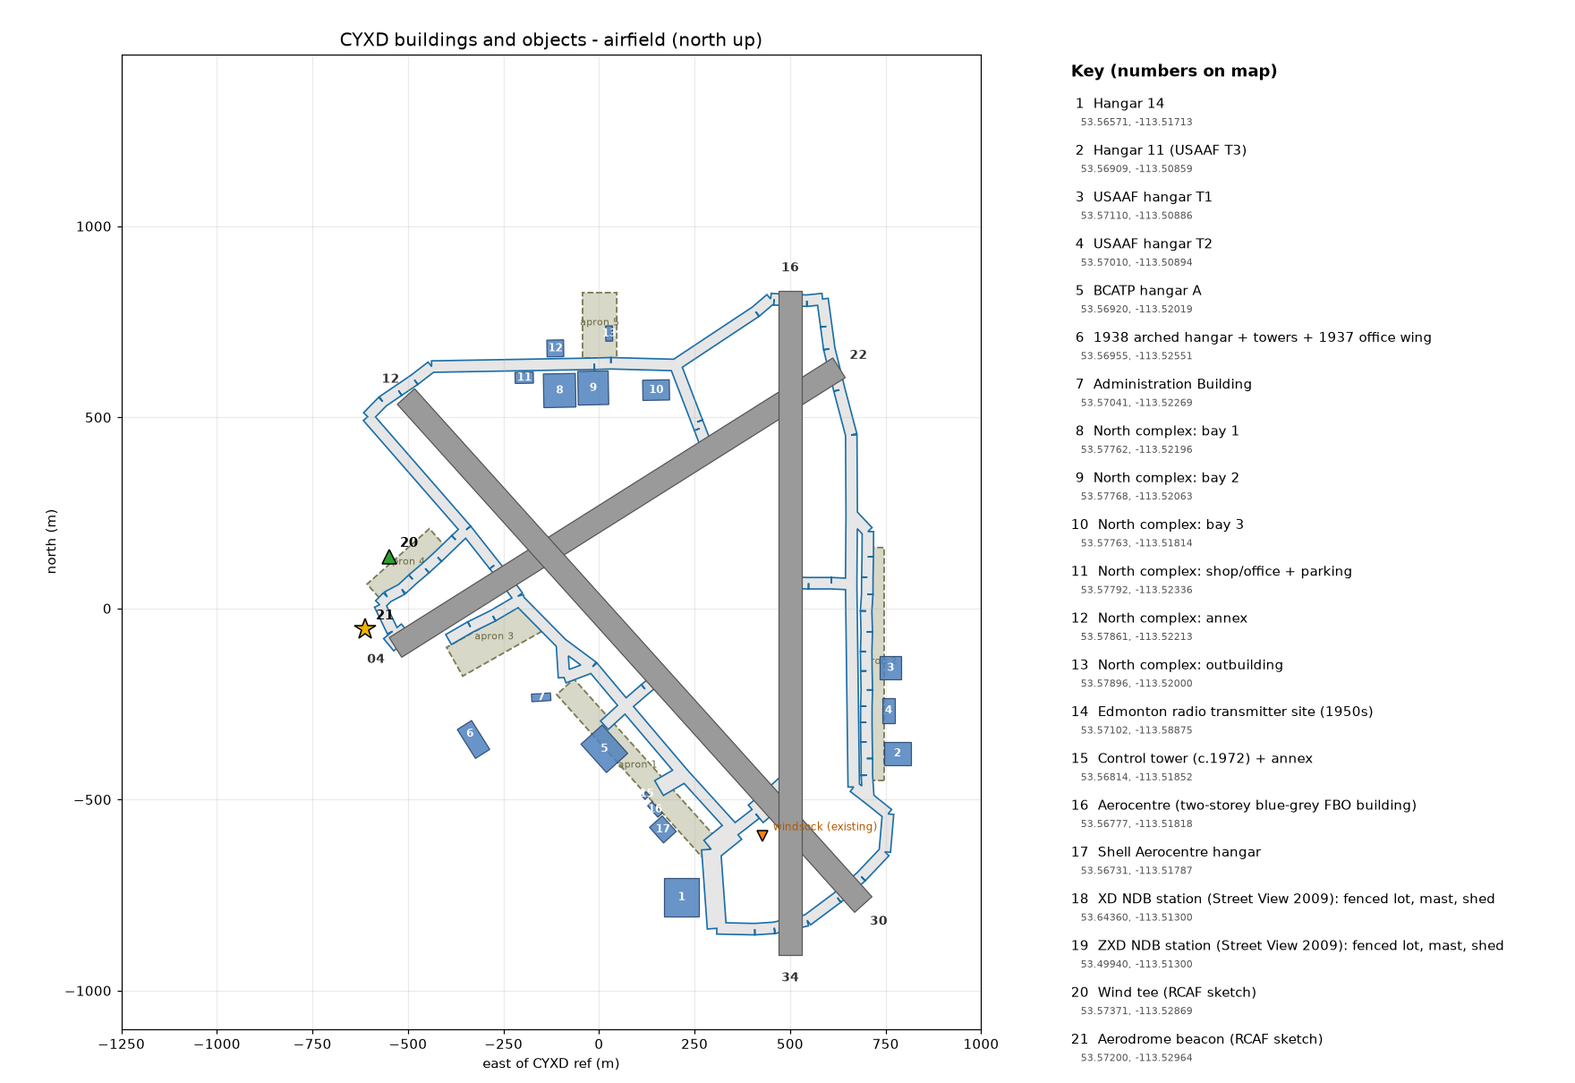
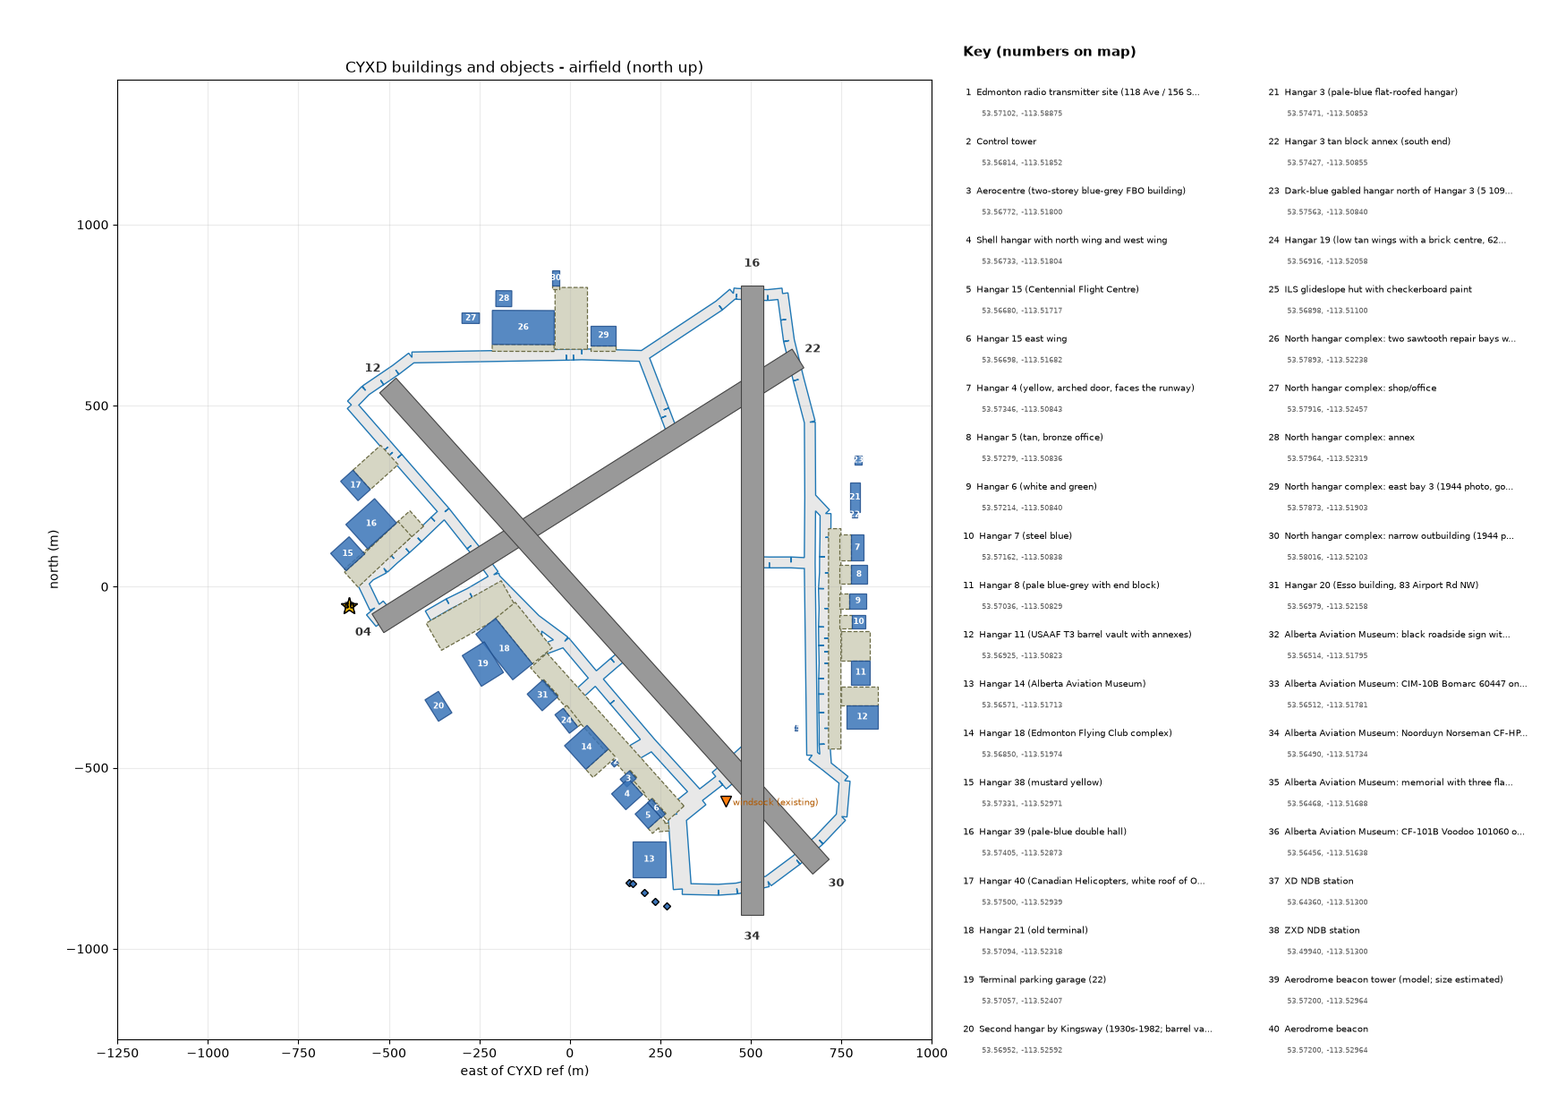
🤖 [cyxd] Commit gen_aprons.py, make_maps.py, regenerated building maps and doc updates; ignore .serena
gen_aprons.py writes the front-door apron block already in CYXD.xml; make_maps.py
draws the building maps. Also the north complex 1944-vs-2016 overlay, hangar
footprint and open-question notes.

diff --git a/airport-cyxd/tools/gen_aprons.py b/airport-cyxd/tools/gen_aprons.py
@@ -1,0 +1,178 @@
+"""Extend the aprons up to each hangar's front (door) wall.  Preview:  python -I airport-cyxd/tools/gen_aprons.py
+Write into CYXD.xml:  python -I airport-cyxd/tools/gen_aprons.py --write   (generated block between the BEGIN/END markers inside <Aprons>)
+Door walls are per building (outward bearing, from each model's door wall), not the side nearest the runway.  Hangar 14 (museum) is skipped on purpose."""
+import math
+import re
+import sys
+import xml.etree.ElementTree as ET
+from pathlib import Path
+
+from shapely.geometry import LineString, Point, Polygon
+from shapely.ops import nearest_points, unary_union
+
+ROOT = Path(__file__).resolve().parents[2]
+CYXD = ROOT / "airport-cyxd/PackageSources/Scenery/airport-cyxd/CYXD.xml"
+KX, KY = 66170.0, 111200.0
+MARGIN = 6.0  # the generator's exclusion margin around each footprint
+BEGIN = "<!-- BEGIN hangar aprons (generated by airport-cyxd/tools/gen_aprons.py) -->"
+END = "<!-- END hangar aprons -->"
+SURFACE = "{85D02B2B-08A1-452E-AB07-6D5AE7F52884}"
+LINK_W = 24.0     # width of a connecting strip to existing pavement
+FORECOURT = 12.0  # depth in front of a door when no pavement lies straight ahead
+# (title prefix, outward bearing of the door wall)
+DOORS = [
+    ("Hangar 4 (", 270), ("Hangar 5 (", 270), ("Hangar 6 (", 270), ("Hangar 7 (", 270),
+    ("Hangar 8 (", 0), ("Hangar 11 (", 0), ("Hangar 18 (", 138), ("Hangar 39 (", 138),
+    ("Hangar 40 (", 48), ("Hangar 21 (", 51), ("Second hangar", 57.78), ("Hangar 3 (", 270),
+    ("Dark-blue gabled", 180), ("Hangar 19 (", 52), ("Hangar 20 (", 48),
+    ("North hangar complex: two sawtooth", 180), ("North hangar complex: shop", 180), ("North hangar complex: annex", 180),
+    ("North hangar complex: east bay 3", 180), ("North hangar complex: narrow", 180),
+    ("Aerocentre", 48), ("Shell hangar", 48), ("Hangar 15 (", 138), ("Hangar 15 east wing", 48),
+]
+# held back until the user confirms the door wall (see STATUS.md: the shop and annex are advised against)
+HOLD = ("Hangar 3 (", "Dark-blue gabled", "Second hangar", "North hangar complex: shop", "North hangar complex: annex")
+DEPTH = {}  # fixed depths (none now; Hangar 38 is served by extending the hand-written Hangar 39 apron, groupIndex 2, 24 m to the SW)
+GROW = {"Hangar 8 (": 6.0, "Hangar 11 (": 6.0, "Hangar 18 (": 4.0}  # apron grows out until this clearance (m) from the next building (user: almost to the hangar beyond / the tower)
+TO_TAXI = ("Hangar 21 (",)  # runs out to the taxiway (terminal: jets)
+TURN = {"Hangar 15 (": (18.0, 22.0)}  # forecourt depth, strip width: out of the door, then a turn to the taxiway (no strip through Hangar 14)
+KEEP_CLEAR = ("Hangar 14 (",)  # museum: no apron towards it; a fence line stands between it and Hangar 15
+KEEP_CLEAR_M = 12.0
+
+
+
+def main():
+    write = "--write" in sys.argv
+    text = CYXD.read_text(encoding="utf-8")
+    pat = r"[ \t]*" + re.escape(BEGIN) + r".*?" + re.escape(END) + r"\r?\n"
+    text_clean = re.sub(pat, "", text, flags=re.S)  # checks run without the previous generated aprons
+    root = ET.fromstring(text_clean)
+    ap = root.find("Airport")
+    lat0, lon0 = float(ap.get("lat")), float(ap.get("lon"))
+    xy = lambda la, lo: ((float(lo) - lon0) * KX, (float(la) - lat0) * KY)
+    pts = {p.get("index"): xy(p.get("lat"), p.get("lon")) for p in ap.findall("TaxiwayPoint")}
+    taxi = unary_union([LineString([pts[t.get("start")], pts[t.get("end")]]).buffer(float(t.get("width")) / 2, cap_style=2)
+                        for t in ap.findall("TaxiwayPath")
+                        if t.get("type") == "TAXI" and t.get("start") in pts and t.get("end") in pts and pts[t.get("start")] != pts[t.get("end")]])
+    aprons = unary_union([Polygon([xy(v.get("lat"), v.get("lon")) for v in a.findall("Vertex")]) for a in ap.iter("Apron")])
+    pave = unary_union([taxi, aprons])
+    rw = []
+    for r in ap.findall("Runway"):
+        cx, cy = xy(r.get("lat"), r.get("lon"))
+        h = math.radians(float(r.get("heading")))
+        f, rt = (math.sin(h), math.cos(h)), (math.cos(h), -math.sin(h))
+        hl, hw = float(r.get("length")) / 2, float(r.get("width")) / 2 + 3
+        rw.append(Polygon([(cx + a * rt[0] + b * f[0], cy + a * rt[1] + b * f[1]) for a, b in ((-hw, -hl), (hw, -hl), (hw, hl), (-hw, hl))]))
+    runways = unary_union(rw)
+    spots = [(xy(p.get("lat"), p.get("lon")), float(p.get("radius"))) for p in ap.iter("TaxiwayParking")]
+    feet = {}
+    for pl in root.iter("Polygon"):
+        d = pl.get("displayName", "")
+        if d.startswith("No generated buildings: "):
+            p = Polygon([xy(v.get("lat"), v.get("lon")) for v in pl.findall("Vertex")])
+            q = p.buffer(-MARGIN, join_style=2)
+            feet[d[len("No generated buildings: "):]] = q if not q.is_empty else p
+    out = []
+    for prefix, brg in DOORS:
+        if prefix in HOLD:
+            continue
+        key = [k for k in feet if k.startswith(prefix)]
+        if not key:
+            print("NO FOOTPRINT for", prefix)
+            continue
+        title = key[0]
+        fp = feet[title]
+        rect = fp.minimum_rotated_rectangle
+        c = list(rect.exterior.coords)[:4]
+        centre = rect.centroid
+        want = (math.sin(math.radians(brg)), math.cos(math.radians(brg)))
+        best = None
+        for i in range(4):
+            a, b = c[i], c[(i + 1) % 4]
+            mid = ((a[0] + b[0]) / 2, (a[1] + b[1]) / 2)
+            n = (mid[0] - centre.x, mid[1] - centre.y)
+            L = math.hypot(*n)
+            n = (n[0] / L, n[1] / L)
+            s = n[0] * want[0] + n[1] * want[1]
+            if best is None or s > best[0]:
+                best = (s, a, b, n)
+        _, a, b, n = best
+
+        def ext(d):
+            return Polygon([a, b, (b[0] + n[0] * d, b[1] + n[1] * d), (a[0] + n[0] * d, a[1] + n[1] * d)])
+        mid = ((a[0] + b[0]) / 2, (a[1] + b[1]) / 2)
+        avoid = unary_union([f2.buffer(KEEP_CLEAR_M) for t2, f2 in feet.items() if t2.startswith(KEEP_CLEAR)])
+        ray_hit = next((k for k in range(0, 160) if pave.contains(Point(mid[0] + n[0] * k, mid[1] + n[1] * k))), None)
+        if prefix in TURN:
+            dep, wid = TURN[prefix]
+            quad = ext(dep)
+            tip = (mid[0] + n[0] * dep, mid[1] + n[1] * dep)
+            tgt = nearest_points(Point(tip), pave.difference(avoid))[1]
+            quad = unary_union([quad, LineString([tip, (tgt.x, tgt.y)]).buffer(wid / 2, cap_style=2)]).difference(avoid)
+            mode = "forecourt %.0f m + turn %.0f m" % (dep, Point(tip).distance(tgt))
+        elif prefix in TO_TAXI:
+            dmax = 0
+            for k in range(1, 11):
+                p0 = (a[0] + (b[0] - a[0]) * k / 11, a[1] + (b[1] - a[1]) * k / 11)
+                dmax = max(dmax, next((j for j in range(1, 200) if taxi.contains(Point(p0[0] + n[0] * j, p0[1] + n[1] * j))), 0))
+            quad = ext(dmax + 3.0)
+            mode = "to taxiway %.0f m" % dmax
+        elif prefix in GROW:
+            others = [f2.buffer(GROW[prefix]) for t2, f2 in feet.items() if t2 != title and not t2.startswith("Old terminal")]
+            obst = unary_union(others)
+            d = next((j for j in range(1, 200) if ext(j).intersects(obst)), 200) - 1
+            quad = ext(d)
+            mode = "grown %d m" % d
+            if not quad.intersects(pave):
+                near = nearest_points(quad, pave)
+                lat = (-n[1], n[0])  # sideways along the door wall: the strip slides to the pavement, so the access is as wide as the strip
+                t = (near[1].x - near[0].x) * lat[0] + (near[1].y - near[0].y) * lat[1]
+                L, lw = abs(t), math.dist(a, b)
+                from shapely import affinity
+                quad = unary_union([quad, affinity.translate(quad, lat[0] * t, lat[1] * t)]).convex_hull
+                mode += " + link %.0f m x %.0f m" % (L, lw)
+        elif prefix in DEPTH:
+            quad = ext(DEPTH[prefix])
+            mode = "fixed %.0f m" % DEPTH[prefix]
+        elif ray_hit is not None:
+            quad = ext(max(ray_hit, 0.0) + 3.0)
+            mode = "ray %d m" % ray_hit
+        else:
+            quad = ext(FORECOURT)
+            near = nearest_points(quad, pave)
+            quad = unary_union([quad, LineString([near[0], near[1]]).buffer(LINK_W / 2, cap_style=2)])
+            mode = "forecourt %.0f m + link %.0f m" % (FORECOURT, near[0].distance(near[1]))
+        new = quad.difference(pave).difference(fp)
+        conf = []
+        if new.intersects(runways):
+            conf.append("RUNWAY")
+        for t2, f2 in feet.items():
+            if t2 != title and not t2.startswith("Old terminal") and new.intersects(f2.buffer(-0.5)):
+                conf.append("bldg:" + t2[:22])
+        for (sx, sy), r in spots:
+            if new.intersects(Point(sx, sy).buffer(r * 0.9)):
+                conf.append("parking")
+                break
+        print("%-34s brg %5.1f span %5.1f  %-34s new %6.0f m2  %s" % (title[:34], brg, math.dist(a, b), mode, new.area, ",".join(conf)))
+        out.append((title, quad.difference(fp)))
+    if not write:
+        return
+    lines = ["\t\t\t" + BEGIN]
+    for title, q in out:
+        for g in (q.geoms if hasattr(q, "geoms") else [q]):
+            if g.is_empty or g.geom_type != "Polygon":
+                continue
+            lines.append("\t\t\t<!-- front-door apron: %s -->" % title.replace("--", "-"))
+            lines.append('\t\t\t<Apron parentGroupID="3" surface="%s" drawSurface="TRUE" drawDetail="TRUE" localUV="TRUE" stretchUV="TRUE" flipUV="FALSE" priority="1" tiling="25.000000" heading="0.000000" falloff="0.100000" opacity="255" groundMerging="TRUE" excludeVegetationAround="TRUE" excludeVegetationInside="TRUE" isRectangle="FALSE">' % SURFACE)
+            for x, y in list(g.exterior.coords)[:-1]:
+                lines.append('\t\t\t\t<Vertex lat="%.14f" lon="%.14f"/>' % (lat0 + y / KY, lon0 + x / KX))
+            lines.append("\t\t\t</Apron>")
+    lines.append("\t\t\t" + END)
+    nl = "\r\n" if "\r\n" in text_clean else "\n"
+    i = text_clean.index("</Aprons>")
+    i = text_clean.rindex(nl, 0, i) + len(nl)
+    CYXD.write_text(text_clean[:i] + nl.join(lines) + nl + text_clean[i:], encoding="utf-8", newline="")
+    print("written", len(out), "door aprons")
+
+
+if __name__ == "__main__":
+    main()

diff --git a/airport-cyxd/tools/make_maps.py b/airport-cyxd/tools/make_maps.py
@@ -1,0 +1,177 @@
+"""Redraw docs/cyxd/maps/ (airfield and overview maps) from CYXD.xml: runways, taxiways, aprons and every generated building.
+
+Run from the repo root:  python -I airport-cyxd/tools/make_maps.py
+Building footprints are the generated exclusion polygons shrunk by the generator's 6 m margin; objects without a polygon are drawn as markers.
+"""
+import math
+import re
+import xml.etree.ElementTree as ET
+from pathlib import Path
+
+import matplotlib
+matplotlib.use("Agg")
+import matplotlib.pyplot as plt
+from matplotlib.patches import Polygon as MPoly
+from shapely.geometry import LineString, Polygon
+from shapely.ops import unary_union
+
+ROOT = Path(__file__).resolve().parents[2]
+CYXD = ROOT / "airport-cyxd/PackageSources/Scenery/airport-cyxd/CYXD.xml"
+OUT = ROOT / "docs/cyxd/maps"
+KX, KY = 66170.0, 111200.0
+MARGIN = 6.0
+BEGIN, END = "BEGIN historic buildings", "END historic buildings"
+RUNWAY_LABELS = {58: ("04", "22"), 138: ("12", "30"), 180: ("16", "34")}
+
+
+def short(title):
+    """Key text: drop OSM way ids and 'traced from ...' tails, then close any open bracket."""
+    t = re.sub(r"(,|;| \()\s*(OSM|traced|replaces|c\.19|RCAF).*", "", title)
+    t = re.sub(r"\s*\(?(Street View 2009|infield).*", "", t)
+    if t.count("(") > t.count(")"):
+        t += ")"
+    return t
+
+
+def classify(title, shape):
+    low = title.lower()
+    if "aerodrome beacon" in low:
+        return "beacon"
+    if "wind tee" in low:
+        return "tee"
+    if "ndb" in low:
+        return "ndb"
+    if "transmitter" in low:
+        return "tx"
+    return "bldg" if shape else "obj"
+
+
+def main():
+    text = CYXD.read_text(encoding="utf-8")
+    root = ET.fromstring(text)
+    ap = root.find("Airport")
+    lat0, lon0 = float(ap.get("lat")), float(ap.get("lon"))
+
+    def xy(lat, lon):
+        return ((float(lon) - lon0) * KX, (float(lat) - lat0) * KY)
+
+    def poly_xy(el):
+        return [xy(v.get("lat"), v.get("lon")) for v in el.findall("Vertex")]
+
+    runways = []
+    for r in ap.findall("Runway"):
+        cx, cy = xy(r.get("lat"), r.get("lon"))
+        h = math.radians(float(r.get("heading")))
+        half_l, half_w = float(r.get("length")) / 2, float(r.get("width")) / 2
+        f, rt = (math.sin(h), math.cos(h)), (math.cos(h), -math.sin(h))
+        pts = [(cx + a * rt[0] + b * f[0], cy + a * rt[1] + b * f[1]) for a, b in ((-half_w, -half_l), (half_w, -half_l), (half_w, half_l), (-half_w, half_l))]
+        lab = RUNWAY_LABELS[round(float(r.get("heading")))]
+        runways.append((pts, (cx - half_l * f[0] * 1.07, cy - half_l * f[1] * 1.07, lab[0]), (cx + half_l * f[0] * 1.07, cy + half_l * f[1] * 1.07, lab[1])))
+    pts = {p.get("index"): xy(p.get("lat"), p.get("lon")) for p in ap.findall("TaxiwayPoint")}
+    shapes = []
+    for t in ap.findall("TaxiwayPath"):
+        if t.get("type") not in ("TAXI", "PATH") or t.get("start") not in pts or t.get("end") not in pts:
+            continue
+        a, b = pts[t.get("start")], pts[t.get("end")]
+        if a != b:
+            shapes.append(LineString([a, b]).buffer(float(t.get("width")) / 2, cap_style=2))
+    taxi = unary_union(shapes) if shapes else None
+    aprons = [poly_xy(a) for a in ap.iter("Apron")]
+
+    block = text[text.index(BEGIN):text.index(END)]
+    foot = {}
+    for pl in root.iter("Polygon"):
+        d = pl.get("displayName", "")
+        if d.startswith("No generated buildings: "):
+            foot[d[len("No generated buildings: "):]] = poly_xy(pl)
+    keep = []
+    pat = r'<!-- (.*?) -->\s*<SceneryObject lat="([^"]+)" lon="([^"]+)"[^>]*heading="([^"]+)"'
+    for m in re.finditer(pat, block, re.S):
+        title = re.sub(r"\s+", " ", m.group(1))
+        if title.startswith(("XD:", "control tower:", "old terminal")):
+            continue
+        lat, lon = float(m.group(2)), float(m.group(3))
+        pg = foot.get(title.replace('"', "'")[:60])
+        shape = None
+        if pg and len(pg) >= 3 and "transmitter" not in title.lower():
+            p = Polygon(pg)
+            q = p.buffer(-MARGIN, join_style=2)
+            shape = list((q if not q.is_empty else p).exterior.coords)[:-1]
+        keep.append((title, lat, lon, xy(lat, lon), shape, classify(title, shape)))
+    wind = None
+    for so in root.iter("SceneryObject"):
+        if so.find("Windsock") is not None:
+            wind = xy(so.get("lat"), so.get("lon"))
+
+    def inside(c, xlim, ylim):
+        return xlim[0] < c[0] < xlim[1] and ylim[0] < c[1] < ylim[1]
+
+    def draw(ax, xlim, ylim, numbered):
+        for pts_, a, b in runways:
+            ax.add_patch(MPoly(pts_, closed=True, fc="#999", ec="#444", lw=0.8, zorder=2))
+            for x, y, lab in (a, b):
+                if inside((x, y), xlim, ylim):
+                    ax.text(x, y, lab, fontsize=9, fontweight="bold", ha="center", va="center", color="#333", zorder=6)
+        if taxi is not None:
+            for g in (taxi.geoms if hasattr(taxi, "geoms") else [taxi]):
+                ax.add_patch(MPoly(list(g.exterior.coords), closed=True, fc="#e8e8e8", ec="#1f77b4", lw=1.0, zorder=1))
+                for i in g.interiors:
+                    ax.add_patch(MPoly(list(i.coords), closed=True, fc="white", ec="#1f77b4", lw=1.0, zorder=1))
+        for a in aprons:
+            ax.add_patch(MPoly(a, closed=True, fc="#d6d6c4", ec="#6b6b44", lw=0.9, ls="--", zorder=1))
+        for n, (title, lat, lon, c, shape, kind) in enumerate(keep, 1):
+            if kind == "bldg":
+                ax.add_patch(MPoly(shape, closed=True, fc="#3a74b8", ec="#1f4e8c", lw=0.9, alpha=0.85, zorder=4))
+            else:
+                mk = {"tee": ("^", 9, "#2ca02c"), "beacon": ("*", 14, "#f2b705"), "ndb": ("o", 9, "#b79be0"), "tx": ("s", 11, "#c0504d"), "obj": ("D", 4, "#3a74b8")}[kind]
+                ax.plot(*c, marker=mk[0], ms=mk[1], color=mk[2], mec="k", zorder=5)
+            if numbered and kind != "obj" and inside(c, xlim, ylim):
+                ax.annotate(str(n), c, fontsize=6.5, color="white" if kind == "bldg" else "k", fontweight="bold", ha="center", va="center", zorder=7)
+        if wind and inside(wind, xlim, ylim):
+            ax.plot(*wind, marker="v", ms=8, color="#ff7f0e", mec="k", zorder=5)
+            ax.annotate("windsock (existing)", wind, xytext=(6, -3), textcoords="offset points", fontsize=7, color="#b35a00")
+        ax.set_xlim(*xlim)
+        ax.set_ylim(*ylim)
+        ax.set_aspect("equal")
+        ax.grid(alpha=0.25)
+
+    OUT.mkdir(parents=True, exist_ok=True)
+    fig = plt.figure(figsize=(17.5, 12.5))
+    ax = fig.add_axes([0.075, 0.07, 0.52, 0.86])
+    draw(ax, (-1250, 1000), (-1250, 1400), True)
+    ax.set_title("CYXD buildings and objects - airfield (north up)")
+    ax.set_xlabel("east of CYXD ref (m)")
+    ax.set_ylabel("north (m)")
+    half = (len(keep) + 1) // 2
+    step = 0.89 / (half + 0.2)
+    for col in range(2):
+        x0 = 0.615 + col * 0.195
+        if col == 0:
+            fig.text(x0, 0.95, "Key (numbers on map)", fontsize=11, fontweight="bold")
+        for j, n in enumerate(range(col * half, min(len(keep), (col + 1) * half))):
+            title, lat, lon = keep[n][:3]
+            y = 0.915 - j * step
+            fig.text(x0, y, "%2d  %s" % (n + 1, short(title) if len(short(title)) <= 50 else short(title)[:48] + "..."), fontsize=7.2)
+            fig.text(x0 + 0.012, y - step * 0.42, "%.5f, %.5f" % (lat, lon), fontsize=5.5, color="#555")
+    fig.savefig(OUT / "cyxd-buildings-airfield.png", dpi=100)
+    plt.close(fig)
+
+    allx = [k[3][0] for k in keep]
+    ally = [k[3][1] for k in keep]
+    fig, ax = plt.subplots(figsize=(10, 11.8))
+    draw(ax, (min(allx) - 800, max(allx) + 1300), (min(ally) - 1200, max(ally) + 1200), False)
+    for title, lat, lon, c, shape, kind in keep:
+        if kind in ("tx", "ndb"):
+            label = title.split(" station")[0] + " (site)" if kind == "ndb" else title.split(" (")[0]
+            ax.annotate(label, c, xytext=(8, 5), textcoords="offset points", fontsize=8, fontweight="bold", color="#5a2a82" if kind == "ndb" else "#8c2a2a")
+    ax.set_title("CYXD overview: NDBs XD / ZXD, transmitter site (north up)")
+    ax.set_xlabel("east of CYXD ref (m)")
+    ax.set_ylabel("north (m)")
+    fig.tight_layout()
+    fig.savefig(OUT / "cyxd-buildings-overview.png", dpi=100)
+    plt.close(fig)
+    print(len(keep), "objects drawn")
+
+
+if __name__ == "__main__":
+    main()

diff --git a/docs/cyxd/open-questions.md b/docs/cyxd/open-questions.md
@@ -25,7 +25,7 @@ Kept here so it can be queried later. Dated 2026-10-13. This file and `reference
 4. A static Pacific Western 737 on the apron.
 5. Hangar 14 static displays: Bomarc, Norseman, memorial and Voodoo in front of the museum are modelled (`tools/display_aircraft.py`; not yet built or seen in the sim). Still open: the black AIR MUSEUM sign, the searchlight, and the displays on the east side and airside (CF-100, HS.125, Silver Star: OSM nodes near 53.5657, -113.5163).
 6. Split `cyxd_hangar_1938_landmark` into the 1930s first hangar and the 1938 hangar (`first-hangar-photos/SOURCES.md`). For the 1938 hangar's door and door-window textures use the Fort Edmonton Park replica wedding photos (link in `reference-links.md`).
-7. General Aviation Centre (77 Airport Road, west side), Canadian Helicopters hangar, and the large red-roofed complex at the north-west. Photos are saved.
+7. General Aviation Centre (77 Airport Road, west side), Canadian Helicopters hangar, and the large red-roofed complex at the north-west (the last is built since 2026-10-21 as the north hangar complex, see STATUS.md; the other two were built earlier). Photos are saved.
 8. Not to build (reference only): the old terminal building.
 9. Trans-Canada Air Lines 1938 logo (Ingenium CAVM-17996) for any TCA livery or sign work.
 10. Search `Category:Hangars at Edmonton City Centre Airport` on Commons for more photos.
@@ -67,3 +67,9 @@ The 1937 plan (amended to 1943, `ualberta-archive-photos/WCWdb_2534.pdf`; crop `
 
 ### Northwest Industries: Hangar 11 or the second ("orange") hangar? (2026-10-21)
 Compared the 1956 photo (`hangar11-photos/flickr_woodysworld1_11393738936.jpg`) with Hangar 11's surviving annex (2013 photos) and with the orange hangar (postcard PC013987, ET-28-900). The 1956 building has a three-storey white block with ribbon windows and a control cab, a steel fire-escape ladder at the block's end, a low one-storey annex with a dark pitched roof in front, and a white barrel hall behind. Hangar 11 in 2013 has the three-storey white clapboard annex with ribbon windows, the steel fire-escape ladder, and a lower one-storey white annex plus a small shed in front. The postcard hangar instead has a two-storey flat-roofed wing and brick towers at the hall's ends, and the 1982 photo shows no cab or sign. Verdict: Northwest Industries = Hangar 11 (fairly solid); the orange hangar is a different building, owner unknown. Hangar 11's model and signs are unchanged.
+
+### Front doors of Hangar 3 and the dark-blue hangar north of it (2026-10-22)
+Apron to their doors is deferred (user: ignore for now). Hangar 3's airside (west) wall is generic in the model (no photo) and its cream roller doors may be on the landside; the dark-blue hangar's roller door is assumed to face south. With either wall on the airside, the nearest pavement is 52-107 m away, so a strip would cross open ground. `tools/gen_aprons.py` lists both in `HOLD`. Needs: which wall carries the main doors, and where the pavement should join.
+
+### Aprons for the 1938 hangar and the other "old" hangar along Kingsway (2026-10-22)
+The 1938 barrel-vault hangar (`cyxd_hangar_1938_landmark`) and the second hangar ("orange", `cyxd_hangar_second`) stand along Kingsway Ave and have no apron at their fronts: their ENE doors face open ground 107-114 m from the nearest pavement (apron 5 / the terminal strip), with the terminal, garage and Hangar 20 in between. Questions: (1) should either get a paved apron at all (they are 1930s-1982 buildings; the 1944 aerial and postcard PC013987 may show an apron or just grass), (2) if so, which route joins it to the terminal apron or the taxiway, (3) are the doors really on the ENE end. `tools/gen_aprons.py` lists the second hangar in `HOLD`; the 1938 hangar is not in its table.

diff --git a/docs/cyxd/hangar-footprints.md b/docs/cyxd/hangar-footprints.md
@@ -14,7 +14,7 @@
   rotated rectangle of its 2016 OSM way (centre, long-axis bearing, size). Present-day OSM has only Hangar 14; the rest were removed after demolition.
 - **Hangar 18** is in neither: it was traced by hand from the 2014 imagery (`footprints/hangar18-tower-frame.jpg`, 10 m grid, tower frame rotated to heading 48).
 - Pictures: `footprints/east-line.jpg` (Hangars 4 to 11), `footprints/west-38-39.jpg`, `footprints/north-west-complex.jpg` (the large red-roofed complex,
-  not built).
+  built 2026-10-21 as `north_main` with four neighbours, see STATUS.md).
 
 ## Table
 | Hangar | OSM way (2016) | Centre lat, lon | Heading (front) | Front x depth (m) | Confidence in which building it is |
